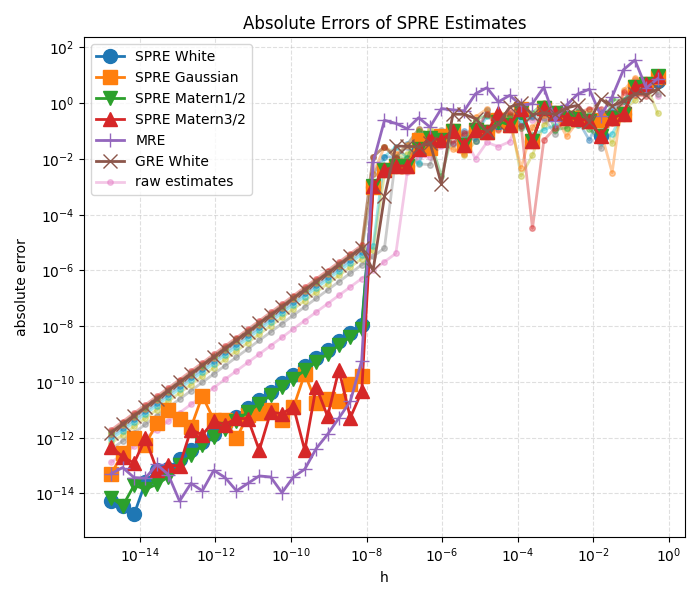
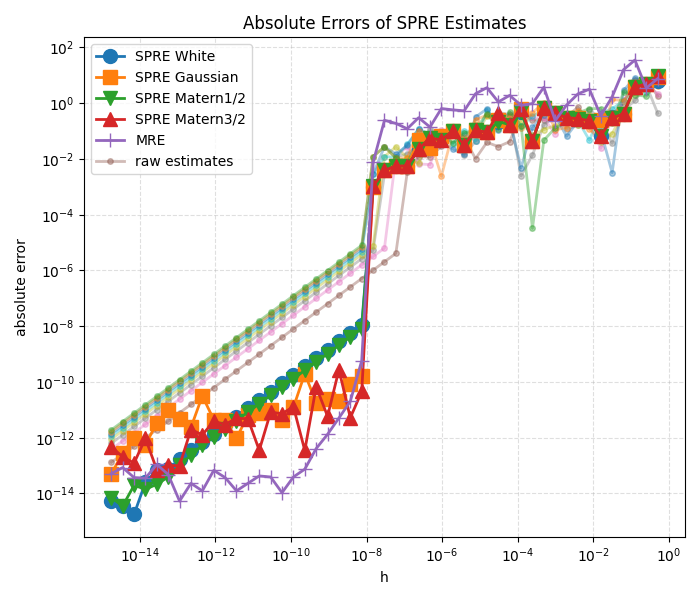
plots of flock results

Changed region(s): [[0.15, 0.12, 0.96, 0.78], [0.12, 0.24, 0.33, 0.33]]

diff --git a/src/plot_analysis_results.py b/src/plot_analysis_results.py
@@ -39,6 +39,8 @@ def plot_spre_results(
     title: str = "Extrapolation Results",
     y_logscale : bool = False,
     show_plot: bool = True,
+    x_lims : tuple = None,
+    y_lims : tuple = None,
     *args,
     **kwargs
 ) -> None:
@@ -65,7 +67,7 @@ def plot_spre_results(
     # Set true value from file if given
     if true_value_filename:
         df = pd.read_csv(true_value_filename, sep="\t")
-        true_value = df['true_value']
+        true_value = df['true_value'][0]
 
     plt.close("all")
     plt.figure(figsize=(7,6))
@@ -77,6 +79,12 @@ def plot_spre_results(
         # Check column exists
         if h_col not in df.columns:
             raise ValueError(f"Column '{h_col}' not found in {file}. Available columns: {list(df.columns)}")
+
+        if x_lims is not None:          
+            # Redefine data to within this limit
+            x_vals = df[h_col]
+            mask = (x_vals >= x_lims[0]) & (x_vals <= x_lims[1])
+            df = df[mask]   
 
         x_vals = df[h_col]
         y_vals = df["mu"]
@@ -92,20 +100,24 @@ def plot_spre_results(
                 capsize=5,
                 ecolor='black',
                 markersize=6,
+                label=label,                
                 *args,
                 **kwargs
             )
         else:
-            plt.plot(x_vals, y_vals, 'o-', markersize=6, *args, **kwargs)
+            plt.plot(x_vals, y_vals, 'o-', markersize=6, label=label, *args, **kwargs)
 
     plt.xscale("log")
     if y_logscale:
         plt.yscale("log")
     plt.xlabel("h")
-    plt.ylabel("mu")
+    plt.ylabel("estimate")
     plt.title(title)
     plt.legend()
     plt.grid(True, which="both", linestyle="--", alpha=0.4)
+
+    if y_lims is not None:
+        plt.ylim(y_lims)    
 
     # Optional horizontal line for true value
     if true_value is not None:
@@ -225,53 +237,66 @@ def plot_multiple_spre_abs(
 
 
 if __name__ == "__main__":
+
+    if False:
     # Example usage
-    files = [
-        "data/flock/results/output_flock_abs_errors_eval_307.dat",
-        "data/flock/results/output_flock_abs_errors_eval_307_GRE.dat"
-    ]
+        files = [
+            "data/flock/results/output_flock_abs_errors_eval_307.dat",
+            "data/flock/results/output_flock_abs_errors_eval_307_GRE.dat"
+        ]
 
-    h_columns = ["h", "h"]
+        h_columns = ["h", "h"]
 
-    labels = ["SPRE white", "GRE white"]
-    title ="Absolute Errors of SPRE Estimates"
+        labels = ["SPRE white", "GRE white"]
+        title ="Absolute Errors of SPRE Estimates"
 
-    plot_multiple_spre_abs(files, h_columns, labels, "data/plots/spre_122_comparison.png", plot_raw_estimates=True,      
-            marker="o",
-            linewidth=2,
-            markersize=10)
+        plot_multiple_spre_abs(files, h_columns, labels, "data/plots/spre_122_comparison.png", plot_raw_estimates=True,      
+                marker="o",
+                linewidth=2,
+                markersize=10)
 
-    # 
-    files = [
-        "data/flock/results/output_flock_abs_errors_eval_321.dat",
-        "data/flock/results/output_flock_abs_errors_eval_320.dat"
-    ]
+    if False:
+        # Compare using more points
+        files = [
+            "data/flock/results/output_flock_abs_errors_eval_321.dat",
+            "data/flock/results/output_flock_abs_errors_eval_320.dat"
+        ]
 
-    h_columns = ["h", "h"]
+        h_columns = ["h", "h"]
 
-    labels = ["SPRE white, from 8 estimates", "SPRE white, from 16 estimates"]
-    title ="Absolute Errors of SPRE Estimates"
+        labels = ["SPRE white, from 8 estimates", "SPRE white, from 16 estimates"]
+        title ="Absolute Errors of SPRE Estimates"
 
-    plot_multiple_spre_abs(files, h_columns, labels, "data/plots/spre_3_parameters_comparison.png", plot_raw_estimates=True,      
-            marker="o",
-            linewidth=2,
-            markersize=10)
+        plot_multiple_spre_abs(files, h_columns, labels, "data/plots/spre_3_parameters_comparison.png", plot_raw_estimates=True,      
+                marker="o",
+                linewidth=2,
+                markersize=10)
     
     # Plot error bar plot
-    for seed in [5]:
+    for seed in [1]:
         seed_str = str(seed)
         if seed == 1:
             seed_str = ""
 
-        files = [f"data/flock/results/output{seed_str}_flock_abs_errors_eval_321.dat"]
-        true_val_file = f"data/flock/results/output{seed_str}_flock_321.dat"
-        h_columns = ["h"]
-        labels = ["SPRE White"]
+        labels = ["SPRE White", "SPRE Gaussian",  "SPRE Matern1/2", "SPRE Matern3/2", "MRE"]
+        methods = ["", "_Gaussian", "_Matern12", "_Matern32", "_MRE"]
 
-        plot_spre_results(files=files,h_columns=h_columns,labels=labels,output_file=f"data/plots/spre_3_parameters_error_bars_seed{seed}.png")
+        for method, label in zip(methods, labels):
+            files = [f"data/flock/results/output{seed_str}_flock_321{method}.dat"]
+            true_val_file = f"data/flock/results/output{seed_str}_flock_abs_errors_eval_321{method}.dat"
+            h_columns = ["h"]           
+
+            plot_spre_results(files=files,
+                            true_value_filename=true_val_file,
+                            h_columns=h_columns,
+                            labels=[label],
+                            #y_logscale=True,
+                            title=None,
+                            output_file=f"data/plots/spre_3_parameters_error_bars_seed{seed}_{method}.png",
+                            x_lims=(1e-16, 1e-8))
 
     # Compare different methods
-    for seed in [5]:
+    for seed in []:#[1, 3, 5]:
         seed_str = str(seed)
         if seed == 1:
             seed_str = ""
@@ -283,12 +308,12 @@ if __name__ == "__main__":
             f"data/flock/results/output{seed_str}_flock_abs_errors_eval_321_Matern12.dat",
             f"data/flock/results/output{seed_str}_flock_abs_errors_eval_321_Matern32.dat",
             f"data/flock/results/output{seed_str}_flock_abs_errors_eval_321_MRE.dat",
-            "data/flock/results/output_flock_abs_errors_eval_321_GRE.dat",
+            #f"data/flock/results/output{seed_str}_flock_abs_errors_eval_321_GRE.dat",
         ]
 
-        h_columns = ["h"] * 6
+        h_columns = ["h"] * len(files)
 
-        labels = ["SPRE White", "SPRE Gaussian", "SPRE Matern1/2", "SPRE Matern3/2", "MRE", "GRE White"] # "SPRE GaussianARD",
+        labels = ["SPRE White", "SPRE Gaussian",  "SPRE Matern1/2", "SPRE Matern3/2", "MRE"]#, "GRE White"] # "SPRE GaussianARD",
         title ="Absolute Errors of Estimates"
         markers = itertools.cycle(('o', 's', 'v', '^', '+', 'x', '*'))
         plot_multiple_spre_abs(files, h_columns, labels, f"data/plots/spre_3_parameters_seed{seed}.png", plot_raw_estimates=True,      

diff --git a/src/models/models_flock.py b/src/models/models_flock.py
@@ -135,7 +135,7 @@ class VideoRecorder:
 
         # Handle periodic wrapping visualisation
         if self.wrap_visualization:
-
+                                                            
             extra_patches = []
 
             W, H = self.model.space.width, self.model.space.height
